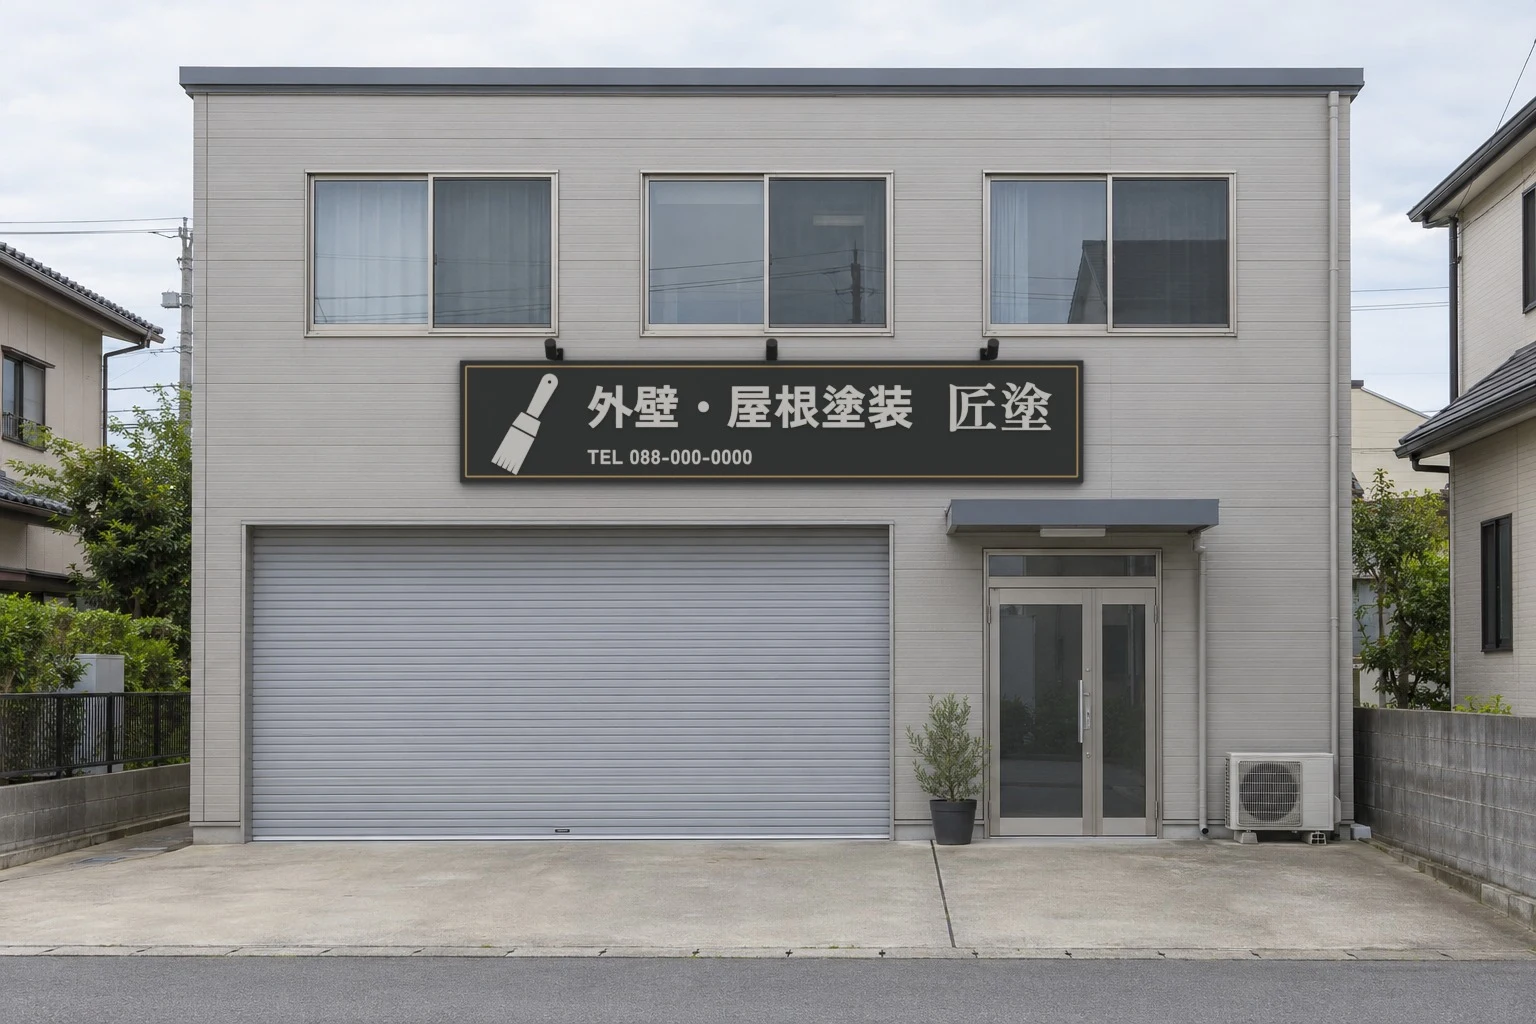
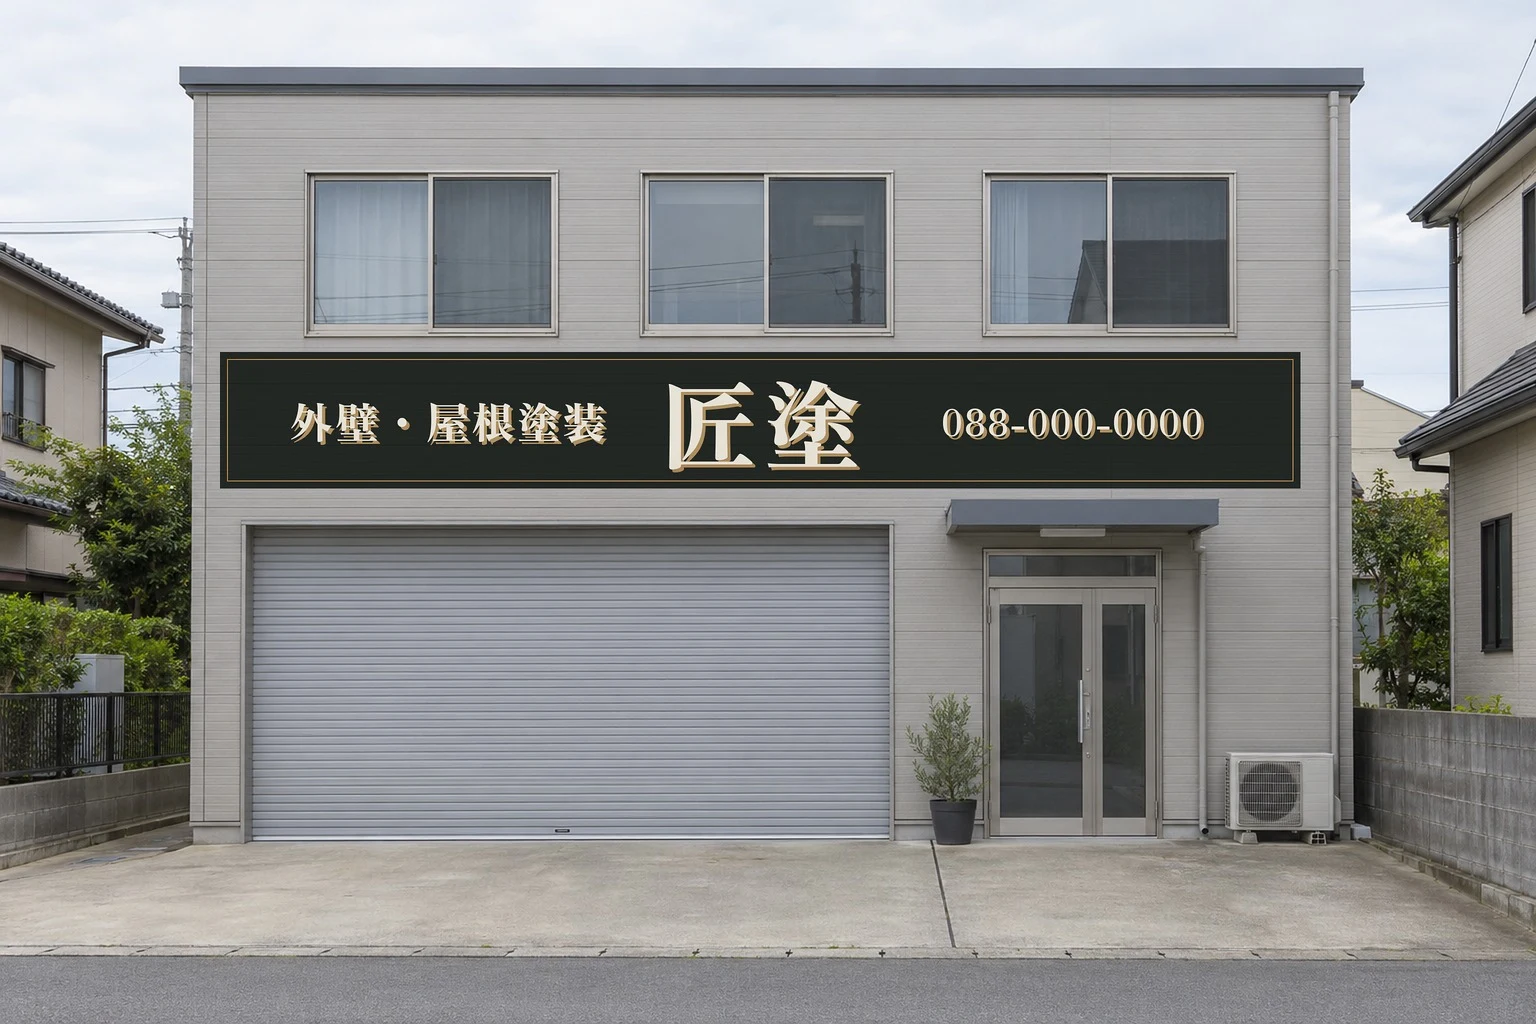
Update TAKUTO signboard draft (v3: signwriting on the wall)

Changed region(s): [[0.125, 0.3125, 0.875, 0.5]]

diff --git a/takuto-signboard/index.html b/takuto-signboard/index.html
@@ -22,35 +22,36 @@
 <body>
 <main>
   <h1>匠塗の看板　見た目案</h1>
-  <p class="lead">事務所の写真に、Blender で作った看板を置いた見本です。写真も看板も架空です。</p>
+  <p class="lead">事務所の写真に、看板を描き込んだ見本です。写真も看板も架空です。</p>
 
   <figure>
-    <img src="assets/day.webp" width="1536" height="1024" alt="2階建ての事務所の正面。シャッターと入口の上の壁に、墨黒の横長の看板">
+    <img src="assets/day.webp" width="1536" height="1024" alt="2階建ての事務所の正面。2階の窓の下の壁に墨黒の帯が塗られ、生成りの字で外壁・屋根塗装、匠塗、電話番号">
     <figcaption>昼・くもり。道路から見た全体</figcaption>
   </figure>
 
   <figure>
-    <img class="close" src="assets/day-close.webp" width="700" height="200" alt="看板の拡大。左に刷毛の絵、外壁・屋根塗装、匠塗、その下に電話番号">
-    <figcaption>看板の部分を拡大（元の写真の大きさのまま広げたので、少しぼやけます）</figcaption>
+    <img class="close" src="assets/day-close.webp" width="1200" height="236" alt="看板の拡大。墨黒の帯に生成りの明朝体、真鍮色の影と細い縁の線">
+    <figcaption>看板の部分を拡大</figcaption>
   </figure>
 
-  <h2>前の案から直したこと</h2>
+  <h2>今回の考え方</h2>
   <ul>
-    <li>何の店か分かるように、刷毛の絵と「外壁・屋根塗装」を社名とほぼ同じ大きさで入れた</li>
-    <li>文字と刷毛は生成りにした。描いた絵で文字と板の明るさの差を測ると、前の 4.5:1 から 6.6:1 に上がった</li>
-    <li>載せるのは刷毛・業種・社名・電話だけ。英字・徳島の印・区切りの線は外した。真鍮色は板の縁取りだけに残した</li>
-    <li>板を幅5.1m・高さ1mに広げ、壁の空いた帯をほぼ使い切った</li>
+    <li>板を付けるのではなく、塗装店が自分で壁に塗って描いた看板にした。看板そのものが塗る腕の見本になる</li>
+    <li>手本はロンドンの店先の看板と、日本の看板職人の手書き文字。どちらも刷毛で字を描き、脇に影を付けて立体に見せる</li>
+    <li>2階の窓の下に、建物の幅いっぱいに墨黒の帯を塗った。上下の縁は養生テープで切ったように真っすぐにしている</li>
+    <li>字は生成り、影と細い縁の線は真鍮色。「匠塗」は高さ約80cm、「外壁・屋根塗装」は約35cm</li>
+    <li>帯の上にも壁の目地がうっすら残るように塗っている</li>
   </ul>
 
   <figure>
-    <img class="close" src="assets/v1-close.webp" width="620" height="200" alt="前の案。墨黒の板に真鍮色の匠塗と小さな文字">
-    <figcaption>前の案（比べる用）</figcaption>
+    <img class="close" src="assets/v3a-close.webp" width="1200" height="236" alt="字を真鍮色にした版">
+    <figcaption>字を真鍮色にした版（比べる用）。飲食店の看板に見えやすいので、上の版をおすすめします</figcaption>
   </figure>
 
-  <h2>このあと</h2>
-  <ul>
-    <li>この看板でよければ、夕方に照明が点いた写真と、看板へ寄っていく短い動画を作ります</li>
-  </ul>
+  <figure>
+    <img class="close" src="assets/v2-close.webp" width="700" height="200" alt="前の案。墨黒の板に刷毛の絵と文字">
+    <figcaption>前の案（比べる用）</figcaption>
+  </figure>
 </main>
 </body>
 </html>
